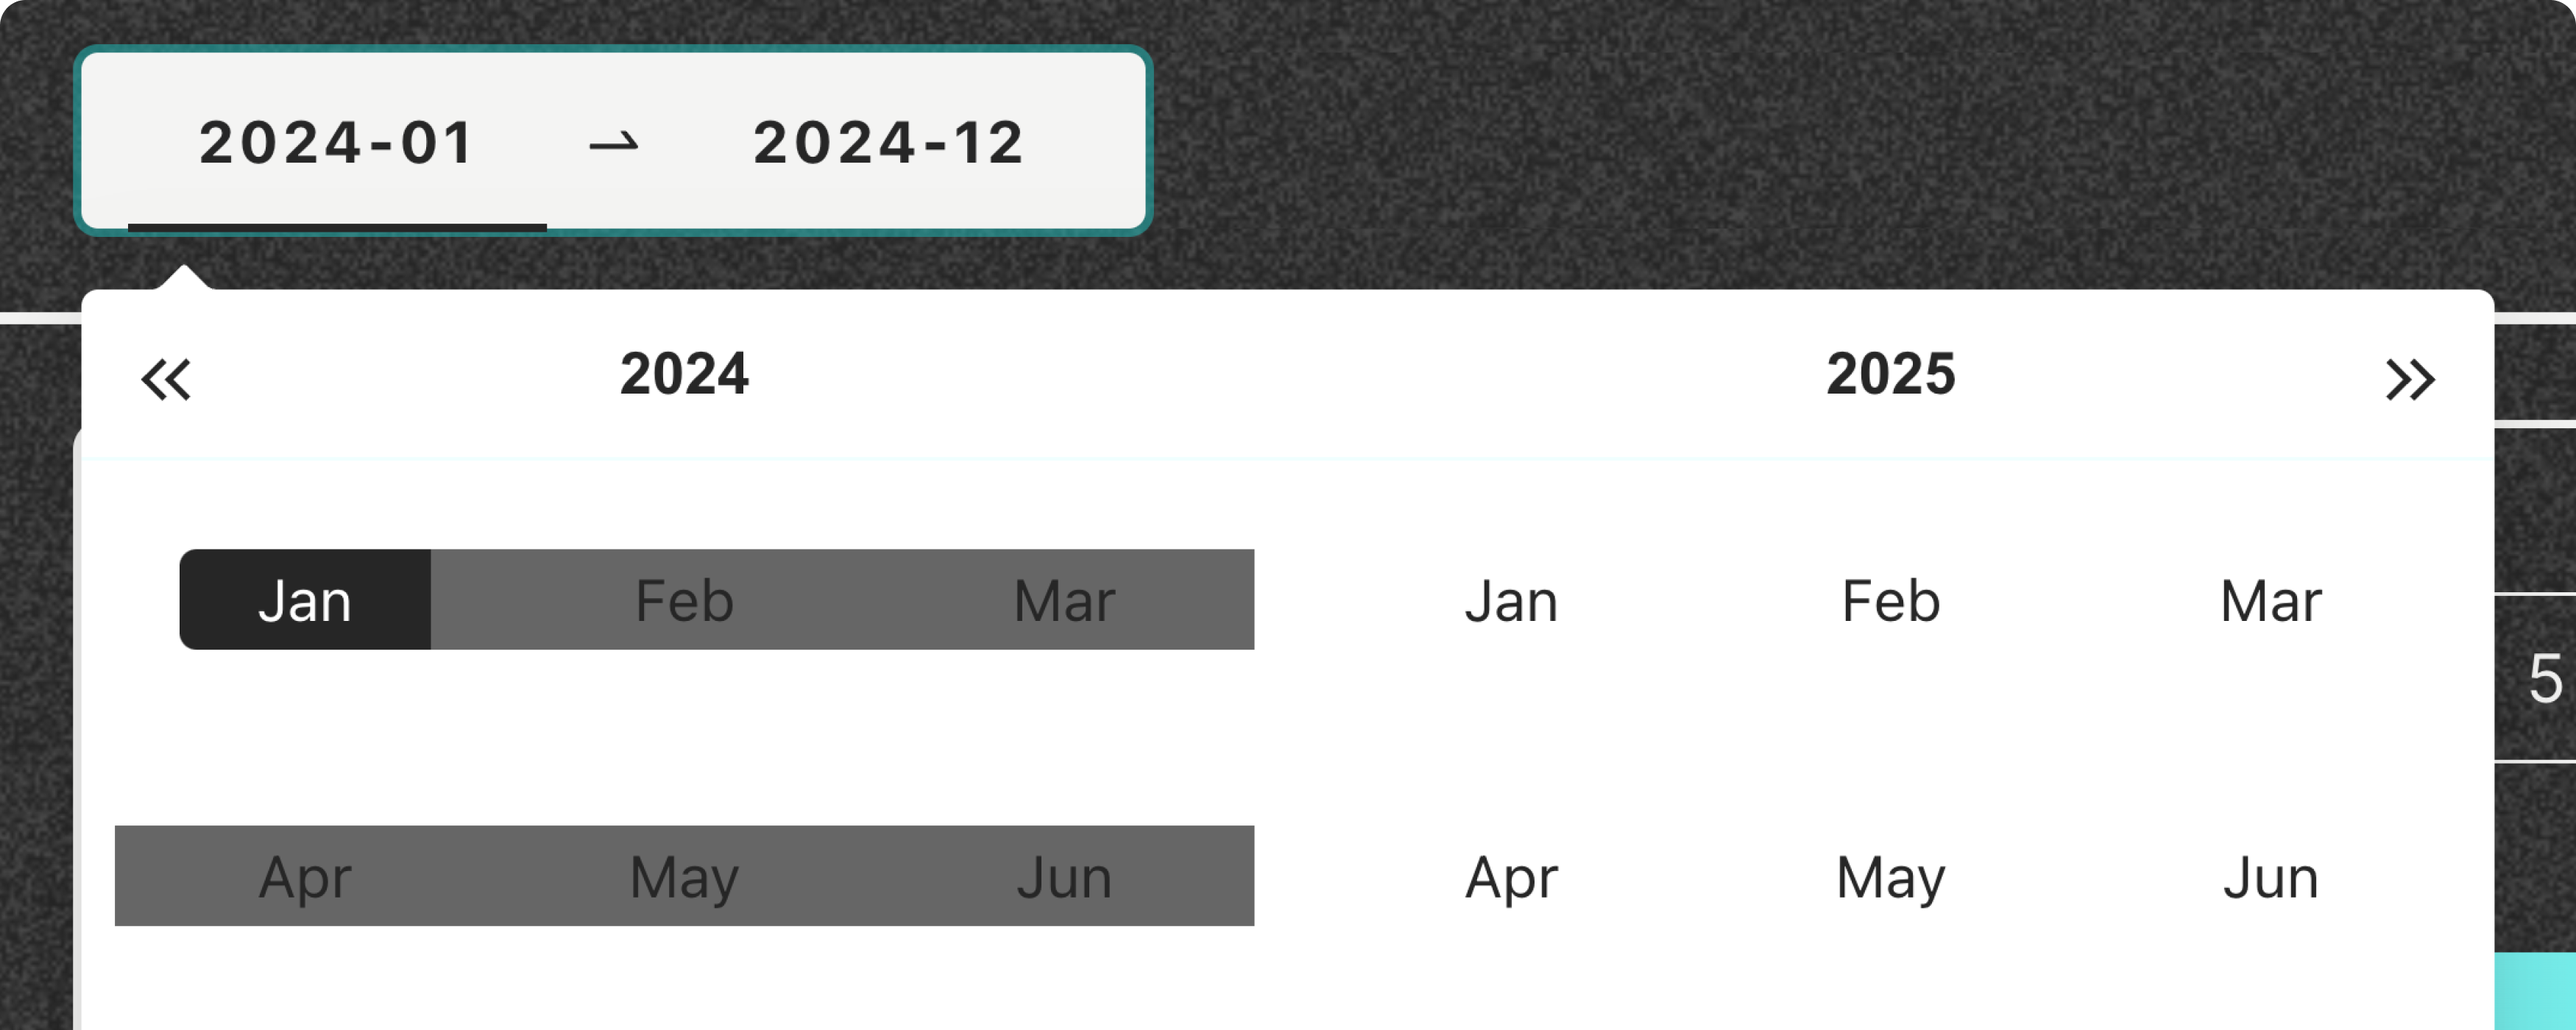
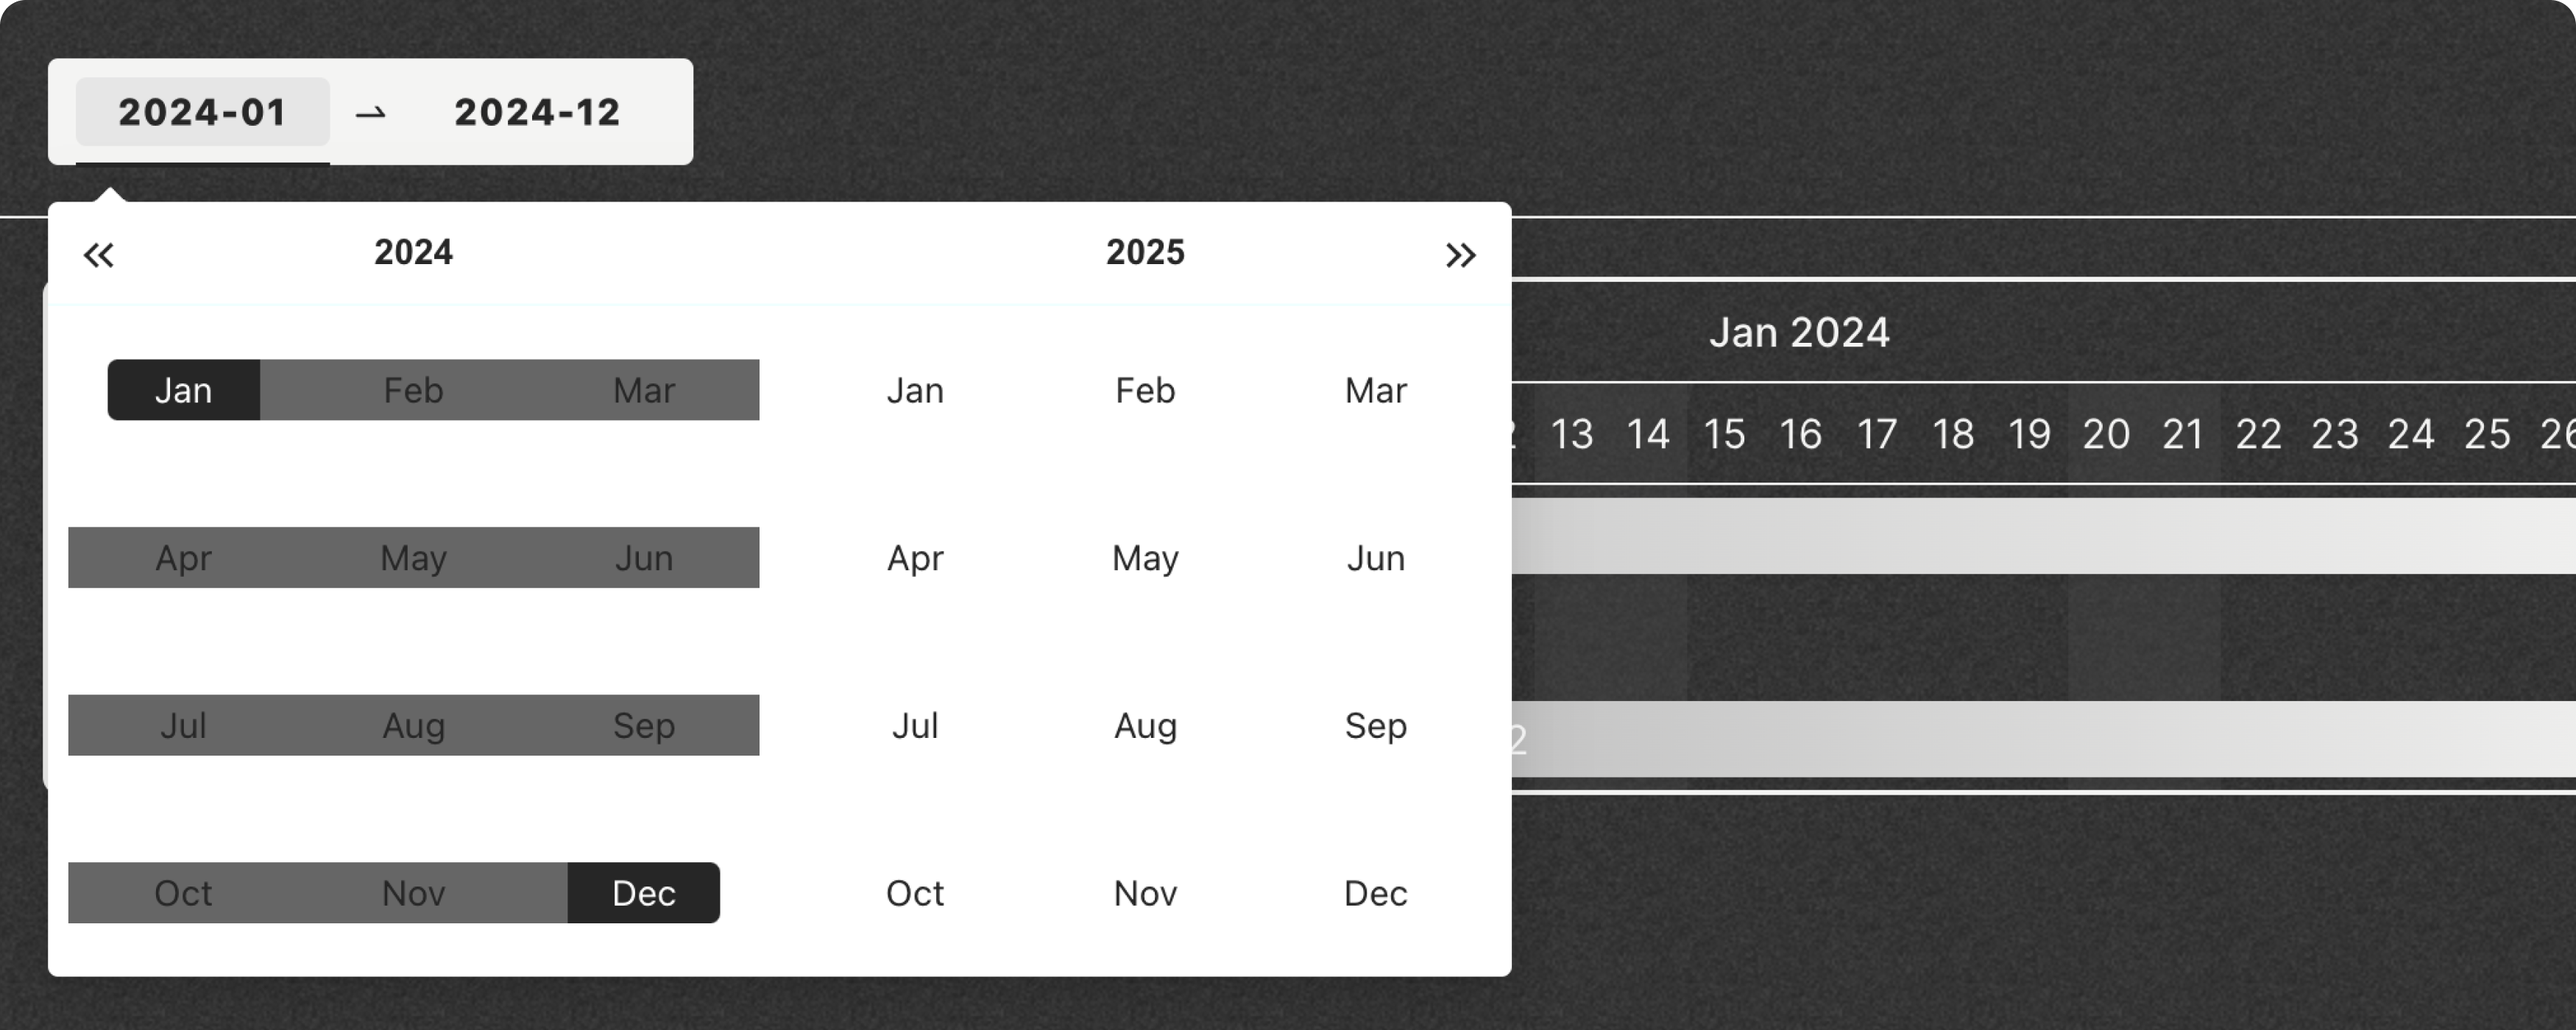
Change home content and adjust some style

diff --git a/src/routes/home.jsx b/src/routes/home.jsx
@@ -216,14 +216,13 @@ export default function Home(props) {
               alignItems: "center",
               margin: "100px 0px",
               "@media (max-width:767px)": {
-                margin: "0px 0px 50px",
+                margin: "0px 0px 100px",
               },
             }}
           >
             <Box
               sx={{
                 width: "90%",
-                // maxWidth: "1280px",
                 display: "flex",
                 flexDirection: "row",
                 justifyContent: "space-between",
@@ -237,7 +236,7 @@ export default function Home(props) {
                   flexDirection: "column",
                   justifyContent: "flex-start",
                   alignItems: "flex-start",
-                  "@media (max-width:767px)": {
+                  "@media (max-width:1200px)": {
                     width: "100%",
                   },
                 }}
@@ -301,17 +300,21 @@ export default function Home(props) {
                   <br />
                   <br />
                 </Typography>
-                <div
-                  style={{
+                <Box
+                  sx={{
                     width: "100%",
-                    display: isSmallScreenW767 ? "flex" : "none",
+                    display: "none",
                     justifyContent: "center",
                     margin: "30px 0px",
+                    "@media (max-width:1200px)": {
+                      display: "flex",
+                    },
                   }}
                 >
                   <Card
                     sx={{
-                      display: isSmallScreenW767 ? "flex" : "none",
+                      // display: isSmallScreenW767 ? "flex" : "none",
+                      display: "flex",
                       width: "30%",
                       minWidth: "200px",
                       aspectRatio: "486/352",
@@ -326,7 +329,7 @@ export default function Home(props) {
                       },
                     }}
                   />
-                </div>
+                </Box>
                 <Typography
                   color="primary"
                   sx={{
@@ -364,7 +367,10 @@ export default function Home(props) {
               <Box
                 sx={{
                   width: "50%",
-                  display: isSmallScreenW767 ? "none" : "flex",
+                  display: "flex",
+                  "@media (max-width:1200px)": {
+                    display: "none",
+                  },
                 }}
               >
                 <Card

diff --git a/src/component/DateRangePicker.jsx b/src/component/DateRangePicker.jsx
@@ -101,6 +101,10 @@ export default function DateRangePicker(props) {
           .ant-picker-dropdown-range {
             z-index: 10000;
           }
+
+          :where(.css-dev-only-do-not-override-74037d).ant-picker-focused.ant-picker {
+            box-shadow: none;
+          }
         `}
       </style>
       <ConfigProvider
@@ -114,8 +118,6 @@ export default function DateRangePicker(props) {
             colorIcon: `${theme.palette.secondary.main}`,
             colorIconHover: `${theme.palette.secondary.main}`,
             warningActiveShadow: "none",
-            // colorBgContainer: "#F3D9D2",
-            // cellActiveWithRangeBg: "#F3D9D2",
             colorBgContainer: "red",
             cellActiveWithRangeBg: "red",
           },

diff --git a/src/component/GanttChart/NotebookGantt_Component.jsx b/src/component/GanttChart/NotebookGantt_Component.jsx
@@ -47,7 +47,6 @@ export default function NotebookGanttComponent(props) {
   const [contextMenu, setContextMenu] = useState(null);
   const [targetType, setTargetType] = useState(null);
   const [chapterIndex, setChapterIndex] = useState(null);
-  console.log(notebook);
 
   let earliestDate = new Date(notebook?.chapters[0]?.start);
   let latestDate = new Date("2024-01-02");
